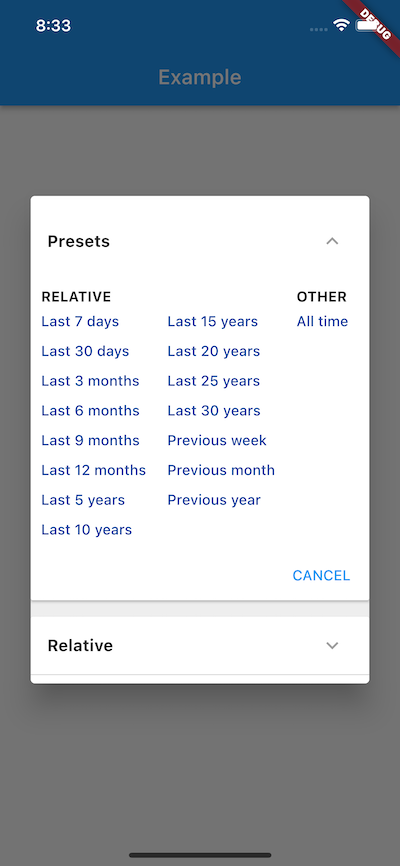
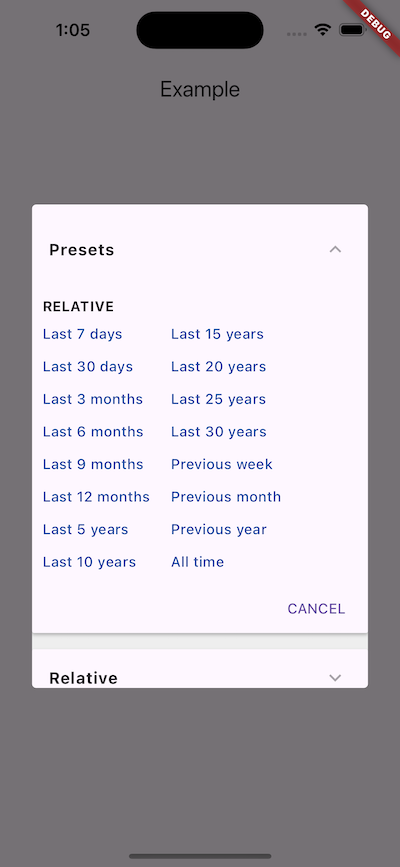
Updated to version 1.3.0, Minor updates due to upgrading Flutter. Updated the intl dependency to '>=0.18.0 <1.0.0' to include 0.19.0.

diff --git a/lib/extensive_date_range_picker.dart b/lib/extensive_date_range_picker.dart
@@ -1,7 +1,6 @@
 library extensive_date_range_picker;
 
 import 'dart:async';
-import 'dart:math' as math;
 import 'dart:ui' as ui show TextDirection;
 
 import 'package:extensive_date_range_picker/src/date_time_relative.dart';
@@ -197,17 +196,6 @@ class _DatePickerDialogState extends State<_DatePickerDialog> {
                 _linkButton("Previous week", DateTimeRangePreset.prevWeek),
                 _linkButton("Previous month", DateTimeRangePreset.prevMonth),
                 _linkButton("Previous year", DateTimeRangePreset.prevYear),
-              ],
-            )),
-        Padding(
-            padding: const EdgeInsets.fromLTRB(10, 2, 10, 0),
-            child: Column(
-              crossAxisAlignment: CrossAxisAlignment.start,
-              children: <Widget>[
-                Padding(
-                  padding: const EdgeInsets.only(bottom: 7),
-                  child: Text("OTHER", style: _headStyle),
-                ),
                 _linkButton("All time", DateTimeRangePreset.allTime)
               ],
             )),
@@ -615,18 +603,18 @@ class _DatePickerDialogState extends State<_DatePickerDialog> {
 
   @override
   Widget build(BuildContext context) {
-    // Constrain the textScaleFactor to the largest supported value to prevent
-    // layout issues.
-    final double textScaleFactor =
-        math.min(MediaQuery.of(context).textScaleFactor, 1.3);
-
     _linkStyle = TextStyle(
         color: Colors.blue.shade900,
         fontSize: Theme.of(context).textTheme.labelLarge!.fontSize,
         fontWeight: Theme.of(context).textTheme.labelLarge!.fontWeight);
 
-    final Size dialogSize = _dialogSize(context) * textScaleFactor;
-    final DialogTheme dialogTheme = Theme.of(context).dialogTheme;
+    // Constrain the textScaleFactor to the largest supported value to prevent
+    // layout issues.
+    final dialogSize = _dialogSize(context);
+    final width = dialogSize.width;
+    final height = dialogSize.height;
+
+    final dialogTheme = Theme.of(context).dialogTheme;
     return Dialog(
       backgroundColor: Colors.grey[200],
       insetPadding:
@@ -639,22 +627,17 @@ class _DatePickerDialogState extends State<_DatePickerDialog> {
               borderRadius: BorderRadius.all(Radius.circular(4.0))),
       clipBehavior: Clip.antiAlias,
       child: AnimatedContainer(
-        width: dialogSize.width,
-        height: dialogSize.height,
+        width: width,
+        height: height,
         duration: _dialogSizeAnimationDuration,
         curve: Curves.easeIn,
-        child: MediaQuery(
-          data: MediaQuery.of(context).copyWith(
-            textScaleFactor: textScaleFactor,
-          ),
-          child: Builder(builder: (BuildContext context) {
-            return SingleChildScrollView(
-              child: Container(
-                child: _buildPanel(context),
-              ),
-            );
-          }),
-        ),
+        child: Builder(builder: (BuildContext context) {
+          return SingleChildScrollView(
+            child: Container(
+              child: _buildPanel(context),
+            ),
+          );
+        }),
       ),
     );
   }

diff --git a/lib/src/custom_dropdown.dart b/lib/src/custom_dropdown.dart
@@ -48,7 +48,6 @@ const EdgeInsets _kUnalignedButtonPadding = EdgeInsets.zero;
 ///   );
 /// }
 /// ```
-/// {@end-tool}
 ///
 /// If the [onTap] callback is null or the list of [items] is null
 /// then the dropdown button will be disabled, i.e. its arrow will be
@@ -185,7 +184,6 @@ class CustomDropdownButton extends StatefulWidget {
   ///   );
   /// }
   /// ```
-  /// {@end-tool}
   ///
   /// Defaults to the [TextTheme.titleMedium] value of the current
   /// [ThemeData.textTheme] of the current [Theme].
@@ -448,7 +446,6 @@ class _CustomDropdownButtonState<T> extends State<CustomDropdownButton>
       innerItemsWidget = DefaultTextStyle(
         style: _textStyle!.copyWith(color: Theme.of(context).hintColor),
         child: IgnorePointer(
-          ignoringSemantics: false,
           child: displayedHint,
         ),
       );

diff --git a/example/ios/Runner/AppDelegate.swift b/example/ios/Runner/AppDelegate.swift
@@ -1,7 +1,7 @@
 import UIKit
 import Flutter
 
-@UIApplicationMain
+@main
 @objc class AppDelegate: FlutterAppDelegate {
   override func application(
     _ application: UIApplication,

diff --git a/CHANGELOG.md b/CHANGELOG.md
@@ -1,3 +1,8 @@
+## [1.3.0]
+
+- Minor updates due to upgrading Flutter.
+- Updated the intl dependency to '>=0.18.0 <1.0.0' to include 0.19.0.
+
 ## [1.2.0]
 
 - Minor updates for Flutter 3.10.0.
